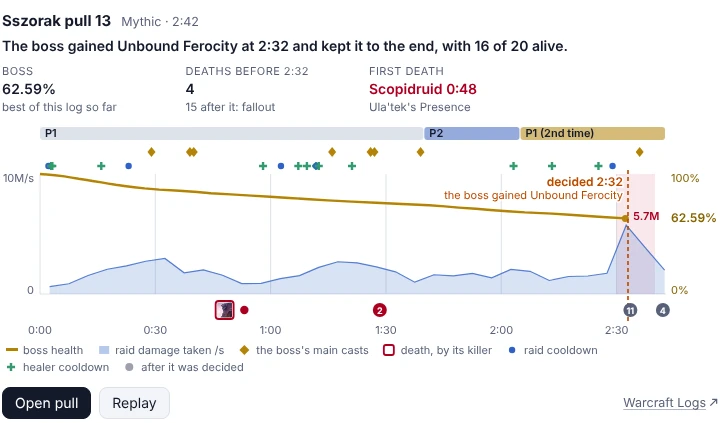
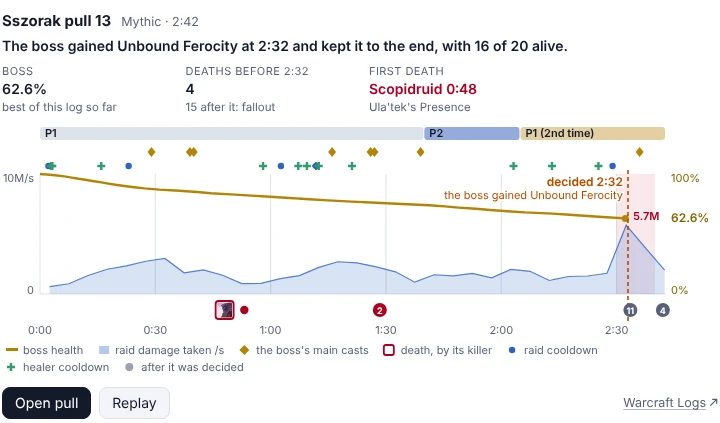
fix(agent): the name of a phase the fight went back to reads on its gold band in the dark theme
"P1 (2nd time)" stood at 3.5:1 on its band on a host's dark card, the one text the contrast test let through.
The band is drawn at 0.38 where it was 0.55, still gold beside the first phase's grey and the next one's blue,
and its label is at 5.1:1 on Claude's dark card and 6.4:1 on the page's own. The test's exception is gone, and
the two changelog pictures of that pull's card are shot again.

Changed region(s): [[0.7028, 0.2766, 0.9472, 0.3381], [0.0306, 0.1844, 0.0917, 0.2459], [0.9472, 0.4917, 1.0, 0.5225]]

diff --git a/src/wipebot/core/app/pull.js b/src/wipebot/core/app/pull.js
@@ -80,7 +80,7 @@ views.pull = (() => {
       const end = i + 1 < D.phases.length ? D.phases[i + 1].ms : D.duration_ms;
       const again = seen.has(p.id); seen.add(p.id);
       return { from: p.ms, to: end, label: `${p.label || `P${p.id}`}${again ? " (2nd time)" : ""}`, name: p.name,
-               fill: again ? "var(--gold)" : i === 0 ? "var(--line)" : "var(--p2)", opacity: again ? 0.55 : i === 0 ? 1 : 0.6 };
+               fill: again ? "var(--gold)" : i === 0 ? "var(--line)" : "var(--p2)", opacity: again ? 0.38 : i === 0 ? 1 : 0.6 };
     });
   }
 

diff --git a/tests/core/test_views.py b/tests/core/test_views.py
@@ -1408,10 +1408,7 @@ async def test_every_text_a_view_draws_reads_against_what_is_behind_it(recorded,
             await texts(tool, {"player": "Mirelle"})
     low = [(tool, t["said"], t["cls"], round(contrast(t["ink"], t["on"]), 2))
            for tool, texts in seen.items() for t in texts if contrast(t["ink"], t["on"]) < 4.5]
-    # known, and still to put right: the name of a phase the fight went back to, on its gold band in the dark theme
-    # (3.5:1 on a host's card; pull.js's phaseBands says how strong the band is)
-    again = [t for t in low if t[0] == "pull_summary" and t[1].startswith("P1 (2nd time)")]
-    assert [t for t in low if t not in again] == [] and (theme == "dark" or not again)
+    assert low == []
     # and it looked at what it says: a chip of each kind, and how many died at once written in three marks
     assert {t["cls"] for t in seen["player_night"] if t["cls"].startswith("chip")} == {
         "chip", "chip fix", "chip unknown", "chip outright", "chip fix sample"}
